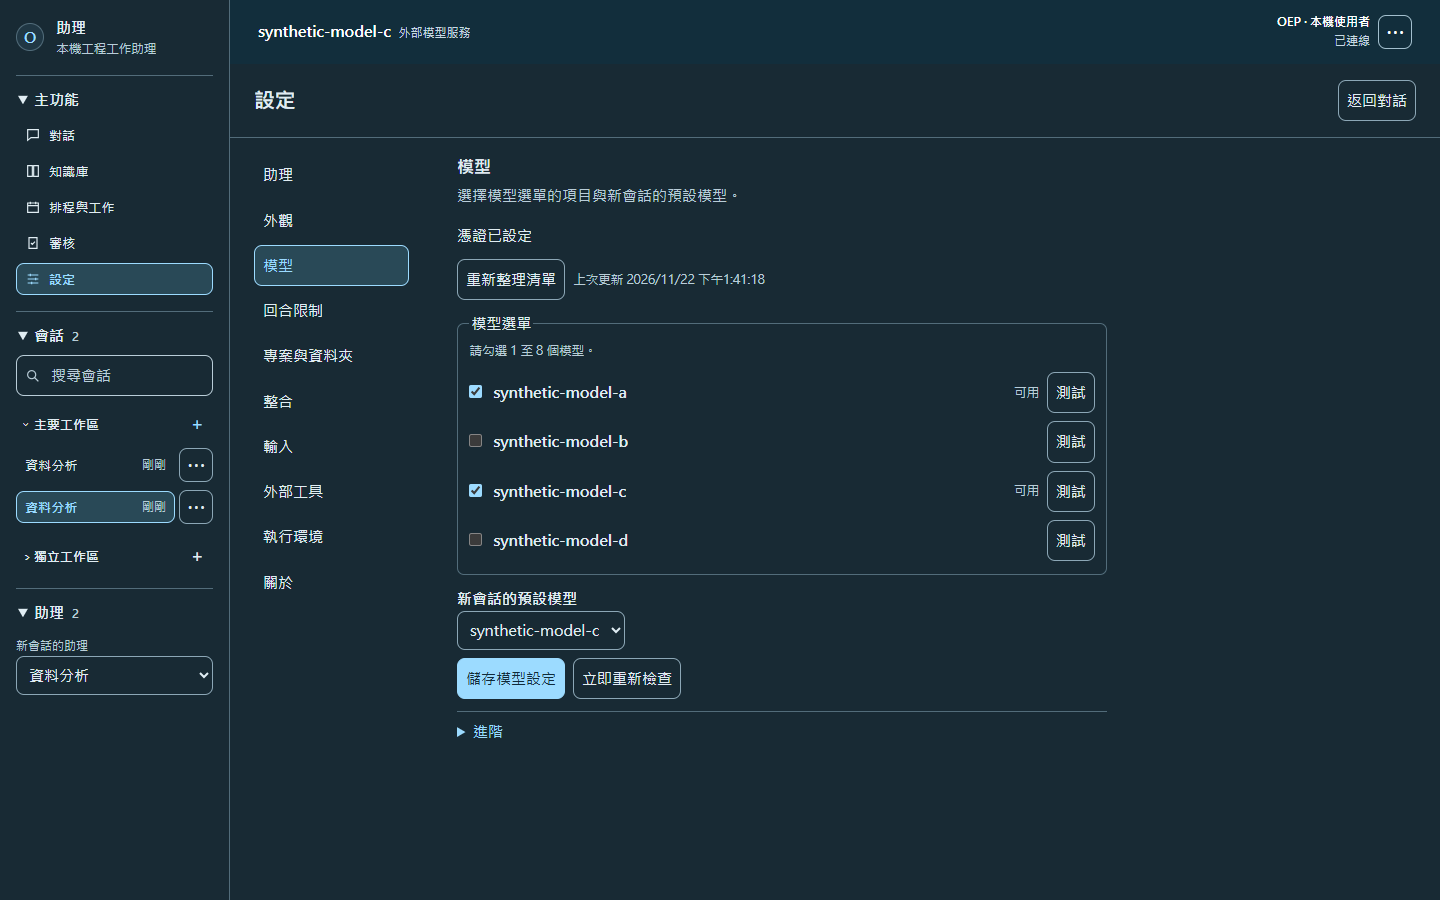
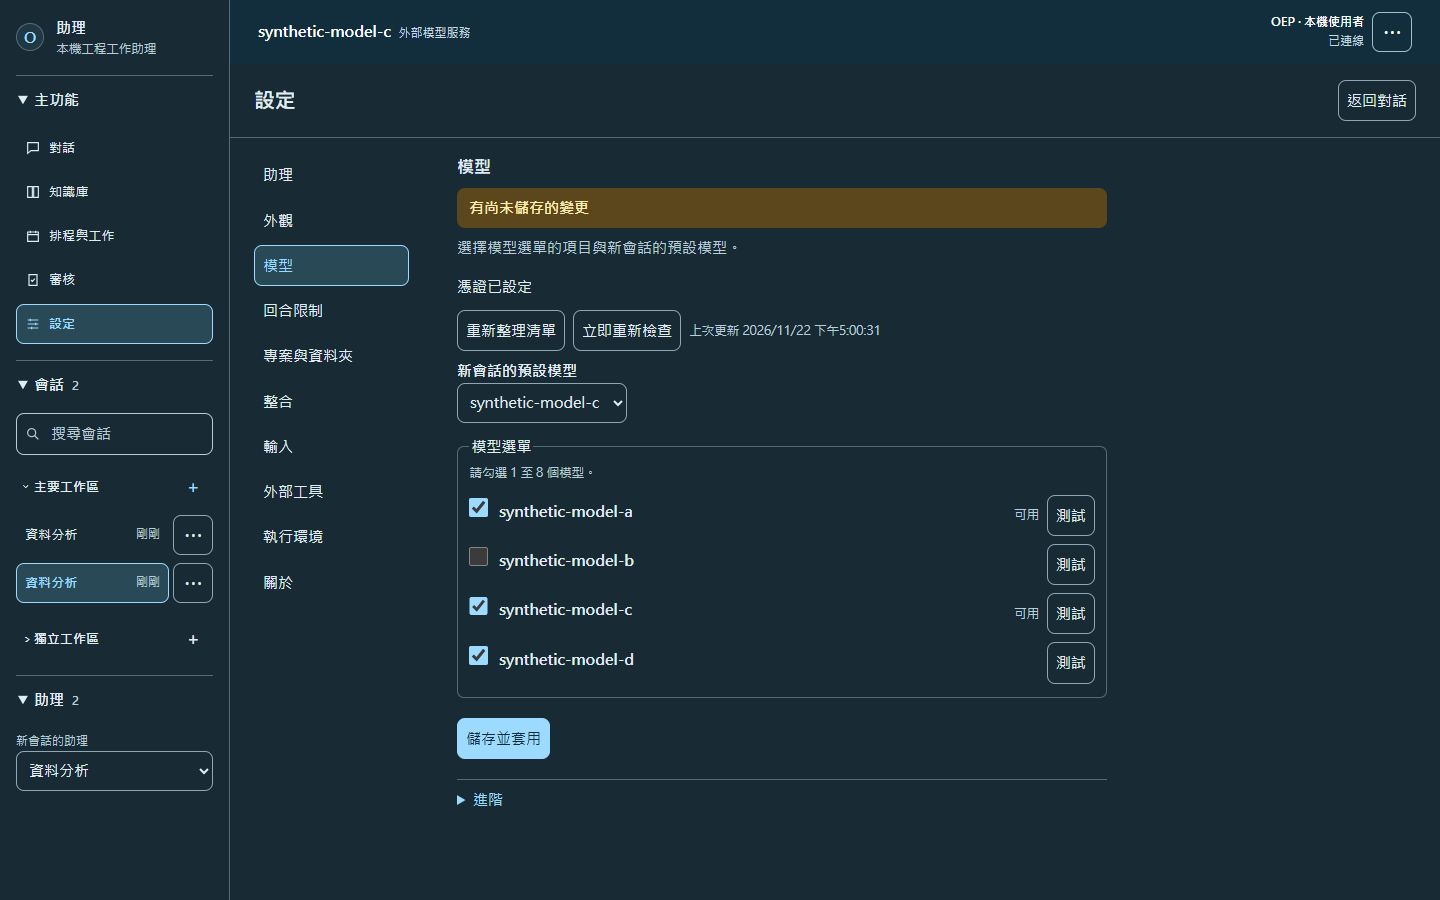
Document model settings verification and refresh screenshots

diff --git a/docs/reviews/PHASE3A_MODEL_SETTINGS_UX_REPORT.md b/docs/reviews/PHASE3A_MODEL_SETTINGS_UX_REPORT.md
@@ -1,0 +1,56 @@
+# Phase 3A 模型設定體驗
+
+2026-11-22（Asia/Taipei）。基準為 `main` 的 `db4ff99`，交付分支為 `phase-3/model-settings-ux`。
+
+## 已交付
+
+- 模型勾選或新會話的預設模型與已儲存設定不同時，頁首顯示「有尚未儲存的變更」。切換設定分類、返回對話或前往其他主功能時，沿用工作台的捨棄確認。取消會保留草稿，確認會還原已儲存設定。
+- 「儲存並套用」是清單正下方的主要操作。清單可獨立捲動，操作列在較短的視窗底部維持可見。僅更改已啟用的預設模型時，原有 API 會在儲存時生效。
+- 需要重啟時，儲存會接著呼叫既有重啟路由。收到忙碌回應後，每兩秒查詢既有模型狀態並在仍有待套用的選擇時重試。重啟路由會檢查進行中的對話與工作。離開模型設定會取消等待，返回後可使用「立即套用」。
+- 重啟後沿用啟動器新開的配對分頁。新分頁連線並確認已啟用本次儲存的設定後，在輸入框旁與模型設定顯示「已套用」。分頁交接使用兩分鐘有效的瀏覽器標記，內容為前一連接埠與設定雜湊。
+- 目前輸入框只有預設模型、已儲存選擇也只有一項時，顯示「到設定選擇更多模型」。既有 API 回傳有效的選擇，介面以此判斷是否顯示連結。所有新增文字均有繁體中文及英文版本。
+
+## 瀏覽器驗收調整
+
+`tests/e2e/gateway-models-browser.ts` 新增勾選與預設模型的未儲存提示、主要操作位置、離開分類和設定頁時的確認與捨棄、離開後停止重試、閒置自動套用、重啟後的確認及前往模型設定連結。
+
+| 既有驗收 | 調整理由 |
+|---|---|
+| 儲存後看到「已儲存」 | 自動套用會更新儲存進度。執行中改驗延後套用文字及未儲存提示消失，並保留重新載入後的勾選、預設模型與待套用狀態驗證。 |
+| 重新載入以「儲存」按鈕啟用作為就緒條件 | 沒有待儲存變更時，儲存按鈕停用。改用重新整理清單按鈕確認模型設定已載入，並保留舊頁面標記及連線檢查。 |
+| 「請稍後重試」及閒置後第二次手動點擊重啟 | 先驗證儲存後的自動嘗試與重試，重新載入後再以「立即套用」驗證同一忙碌情境。釋放會話後，等待重啟狀態與啟動器回呼，覆蓋自動重試。 |
+
+原有的發現及快取、單個模型檢查、套用前後的模型選單、知識庫評測名單、原模型移除後的會話行為、敏感資料檢查與版面寬度斷言均保留。
+
+## 合成樣張
+
+以 `OEP_CAPTURE_GATEWAY_MODELS=1` 執行 Chromium 驗收可重建八張原路徑樣張。樣張顯示未儲存草稿與可按下的「儲存並套用」，視窗為 1440 × 900 與 390 × 844。
+
+| 語言 | 寬・淺色 | 寬・深色 | 窄・淺色 | 窄・深色 |
+|---|---|---|---|---|
+| 繁體中文 | [PNG](../validation/gui/settings-model-light-wide.png) | [PNG](../validation/gui/settings-model-dark-wide.png) | [PNG](../validation/gui/settings-model-light-narrow.png) | [PNG](../validation/gui/settings-model-dark-narrow.png) |
+| English | [PNG](../validation/gui/settings-model-light-wide-en.png) | [PNG](../validation/gui/settings-model-dark-wide-en.png) | [PNG](../validation/gui/settings-model-light-narrow-en.png) | [PNG](../validation/gui/settings-model-dark-narrow-en.png) |
+
+初次樣張顯示開啟下一份草稿後，上一輪的「已套用」仍出現在儲存按鈕旁。修正後開始編輯會清除這項訊息，新增瀏覽器斷言並重新擷取樣張。
+
+## 驗收輸出
+
+Windows 11 x64、Node 24.14.1、PowerShell 7.6.10。依序執行，每個指令使用各自新建的暫存 `OEP_DATA_DIR`。Python 驗證只在驗收程序使用既有的 `oep-verify-venv`。本工作樹啟用 Phase 0 Git hooks。
+
+| 指令 | 實際輸出摘要 |
+|---|---|
+| `npm run lint` | `Checked 213 source and configuration files.` |
+| `npm run typecheck` | `tsc --noEmit`，exit 0 |
+| `npm test` | 68 通過、0 失敗，包含雙語字串及介面／轉接服務用語鍵值驗證。 |
[1 lines of base64/hex data omitted]
+| `npm run test:e2e:browser` | 三輪均通過，耗時 67.36、67.89、67.96 秒。每輪 `supervisorExit: 0`、`childExit: 0`、`orphans: 0`，模型驗收涵蓋未儲存提示、離開確認、自動與延後套用、重新載入及對話提示。 |
+| `npm run test:e2e:knowledge` | 1 通過、0 失敗。Chromium 顯示可重現的引用，OpenCode MCP 回傳已驗證及拒絕的結果。 |
+| `npm run test:e2e:mcp` | exit 0。`Isolated MCP probes passed with verified Job cleanup.` 與 `Chromium MCP add, catalog test, apply, persistence, edit, disable, and remove verified.` |
+| `npm run test:compliance` | 2 通過、0 失敗。 |
+| `npm run test:release:determinism` | 1 通過、0 失敗。兩份 ZIP 的 SHA-256 均與發行建置相同。 |
+| `npm run scan` | `{"mode":"tree","files":528,"hits":0,"rules":{}}` |
+
+## 待審核者驗收
+
+- `npm run test:e2e:web`、`npm run test:e2e:excel`、`npm run test:install`、`npm run test:upgrade`、`npm run test:backup`。
+- 模型清單、套用與樣張使用合成閘道。擁有者的 OEP 持續執行。

diff --git a/docs/GUI_LAYOUT.md b/docs/GUI_LAYOUT.md
@@ -32,7 +32,7 @@
 
 - 頂列左側顯示目前模型、模型來源與對話的處理狀態。右側顯示本機使用身分及連線狀態。頂列右側的「⋯」是「更多」，包含語言選單、「停止服務」及對話的附加資料入口。
 - 訊息區可捲動。離開最新訊息時，可用「跳到最新訊息」返回。對話下方的會話檔案按鈕可直接預覽附件和助理建立的檔案。
-- 輸入框支援選取或拖放附件。可從「已選附件」勾選下一則要傳送的檔案，或選用既有的唯讀資料夾與語音輸入。模型選單標示設定預設值，切換從下一則訊息生效。「停止處理」結束當前回合。下方固定顯示 Enter 送出與 Shift + Enter 換行的提示，中文輸入法組字時可用 Enter 確認選字。
+- 輸入框支援選取或拖放附件。可從「已選附件」勾選下一則要傳送的檔案，或選用既有的唯讀資料夾與語音輸入。模型選單標示設定預設值，切換從下一則訊息生效。若目前只有預設模型，可從「到設定選擇更多模型」直接開啟設定。「停止處理」結束當前回合。下方固定顯示 Enter 送出與 Shift + Enter 換行的提示，中文輸入法組字時可用 Enter 確認選字。
 - 設定、知識庫、排程與工作、審核各自使用中央區域。知識庫頁首保留已發布知識庫選單和搜尋狀態。概覽、問答、品質與建置每次顯示一頁，方向鍵可切換。重新載入後再次開啟知識庫，會恢復上一次使用的頁籤與仍可用的知識庫。
 
 ## 設定
@@ -49,7 +49,7 @@
 | 設定／助理 | 設定／助理／進階 | 停用的多助理委派開關及原因 | <!-- ui:settings-assistant-advanced -->
 | 設定／外觀 | 設定／外觀 | 主題（跟隨系統、淺色、深色）、顯示密度（寬鬆、緊湊）、語言（繁體中文、英文） | <!-- ui:settings-appearance-theme -->
 | 設定／外觀 | 設定／外觀 | 上傳頭像、還原預設頭像、儲存外觀及狀態 | <!-- ui:settings-appearance-avatar -->
-| 設定／模型 | 設定／模型 | 新會話預設模型選單、儲存預設模型、立即重新檢查及狀態 | <!-- ui:settings-model-controls -->
+| 設定／模型 | 設定／模型 | 模型勾選、新會話預設模型選單、未儲存提示、儲存並套用、立即套用、立即重新檢查及狀態 | <!-- ui:settings-model-controls -->
 | 設定／模型 | 設定／模型 | 憑證設定狀態、各模型檢查結果 | <!-- ui:settings-model-status -->
 | 設定／模型 | 設定／模型／進階 | 閘道維運說明 | <!-- ui:settings-model-advanced -->
 | 設定／回合限制 | 設定／回合限制 | 最近訊息則數、歷史容量上限、工具呼叫次數上限、回合時限、欄位範圍、儲存回合限制及狀態 | <!-- ui:settings-limits -->
@@ -154,6 +154,7 @@
 | 對話 | [PNG](validation/gui/conversation-light-wide-en.png) | [PNG](validation/gui/conversation-dark-wide-en.png) | [PNG](validation/gui/conversation-light-narrow-en.png) | [PNG](validation/gui/conversation-dark-narrow-en.png) |
 | 對話與 Excel 檔案 | [PNG](validation/gui/conversation-artifact-light-wide-en.png) | [PNG](validation/gui/conversation-artifact-dark-wide-en.png) | [PNG](validation/gui/conversation-artifact-light-narrow-en.png) | [PNG](validation/gui/conversation-artifact-dark-narrow-en.png) |
 | 設定／外觀 | [PNG](validation/gui/settings-appearance-light-wide-en.png) | [PNG](validation/gui/settings-appearance-dark-wide-en.png) | [PNG](validation/gui/settings-appearance-light-narrow-en.png) | [PNG](validation/gui/settings-appearance-dark-narrow-en.png) |
+| 設定／模型 | [PNG](validation/gui/settings-model-light-wide-en.png) | [PNG](validation/gui/settings-model-dark-wide-en.png) | [PNG](validation/gui/settings-model-light-narrow-en.png) | [PNG](validation/gui/settings-model-dark-narrow-en.png) |
 | 知識庫 | [PNG](validation/gui/slice3a-overview-light-wide-en.png) | [PNG](validation/gui/slice3a-overview-dark-wide-en.png) | [PNG](validation/gui/slice3a-overview-light-narrow-en.png) | [PNG](validation/gui/slice3a-overview-dark-narrow-en.png) |
 | 排程與工作 | [PNG](validation/gui/jobs-list-light-wide-en.png) | [PNG](validation/gui/jobs-list-dark-wide-en.png) | [PNG](validation/gui/jobs-list-light-narrow-en.png) | [PNG](validation/gui/jobs-list-dark-narrow-en.png) |
 | 審核 | [PNG](validation/gui/review-list-light-wide-en.png) | [PNG](validation/gui/review-list-dark-wide-en.png) | [PNG](validation/gui/review-list-light-narrow-en.png) | [PNG](validation/gui/review-list-dark-narrow-en.png) |

diff --git a/docs/TASKS.md b/docs/TASKS.md
@@ -198,6 +198,7 @@ Owner 已核准開始。從 `e616e6a` 開 `phase-2/web-gui`，完成或具體受
 ## Phase 3A 閘道模型清單
 
 - [x] 探索並保存閘道模型清單，提供繁中及英文的模型勾選、測試、預設與閒置重啟。會話可保留紀錄並在原模型移除後改用預設模型，知識庫品質檢查沿用已套用的模型選擇。 [驗收紀錄](reviews/PHASE3A_GATEWAY_MODELS_REPORT.md)
+- [x] 模型設定顯示未儲存提示，離開前確認捨棄變更。「儲存並套用」在閒置時自動生效，對話只有預設模型時可直接前往模型設定。 [驗收紀錄](reviews/PHASE3A_MODEL_SETTINGS_UX_REPORT.md)
 - [ ] 由審核者補跑執行中 OEP 阻擋的 Web HTTP、真模型 Excel、安裝、升級及備份還原驗收。
 
 ## 2026-11-22 升級與測試強化
